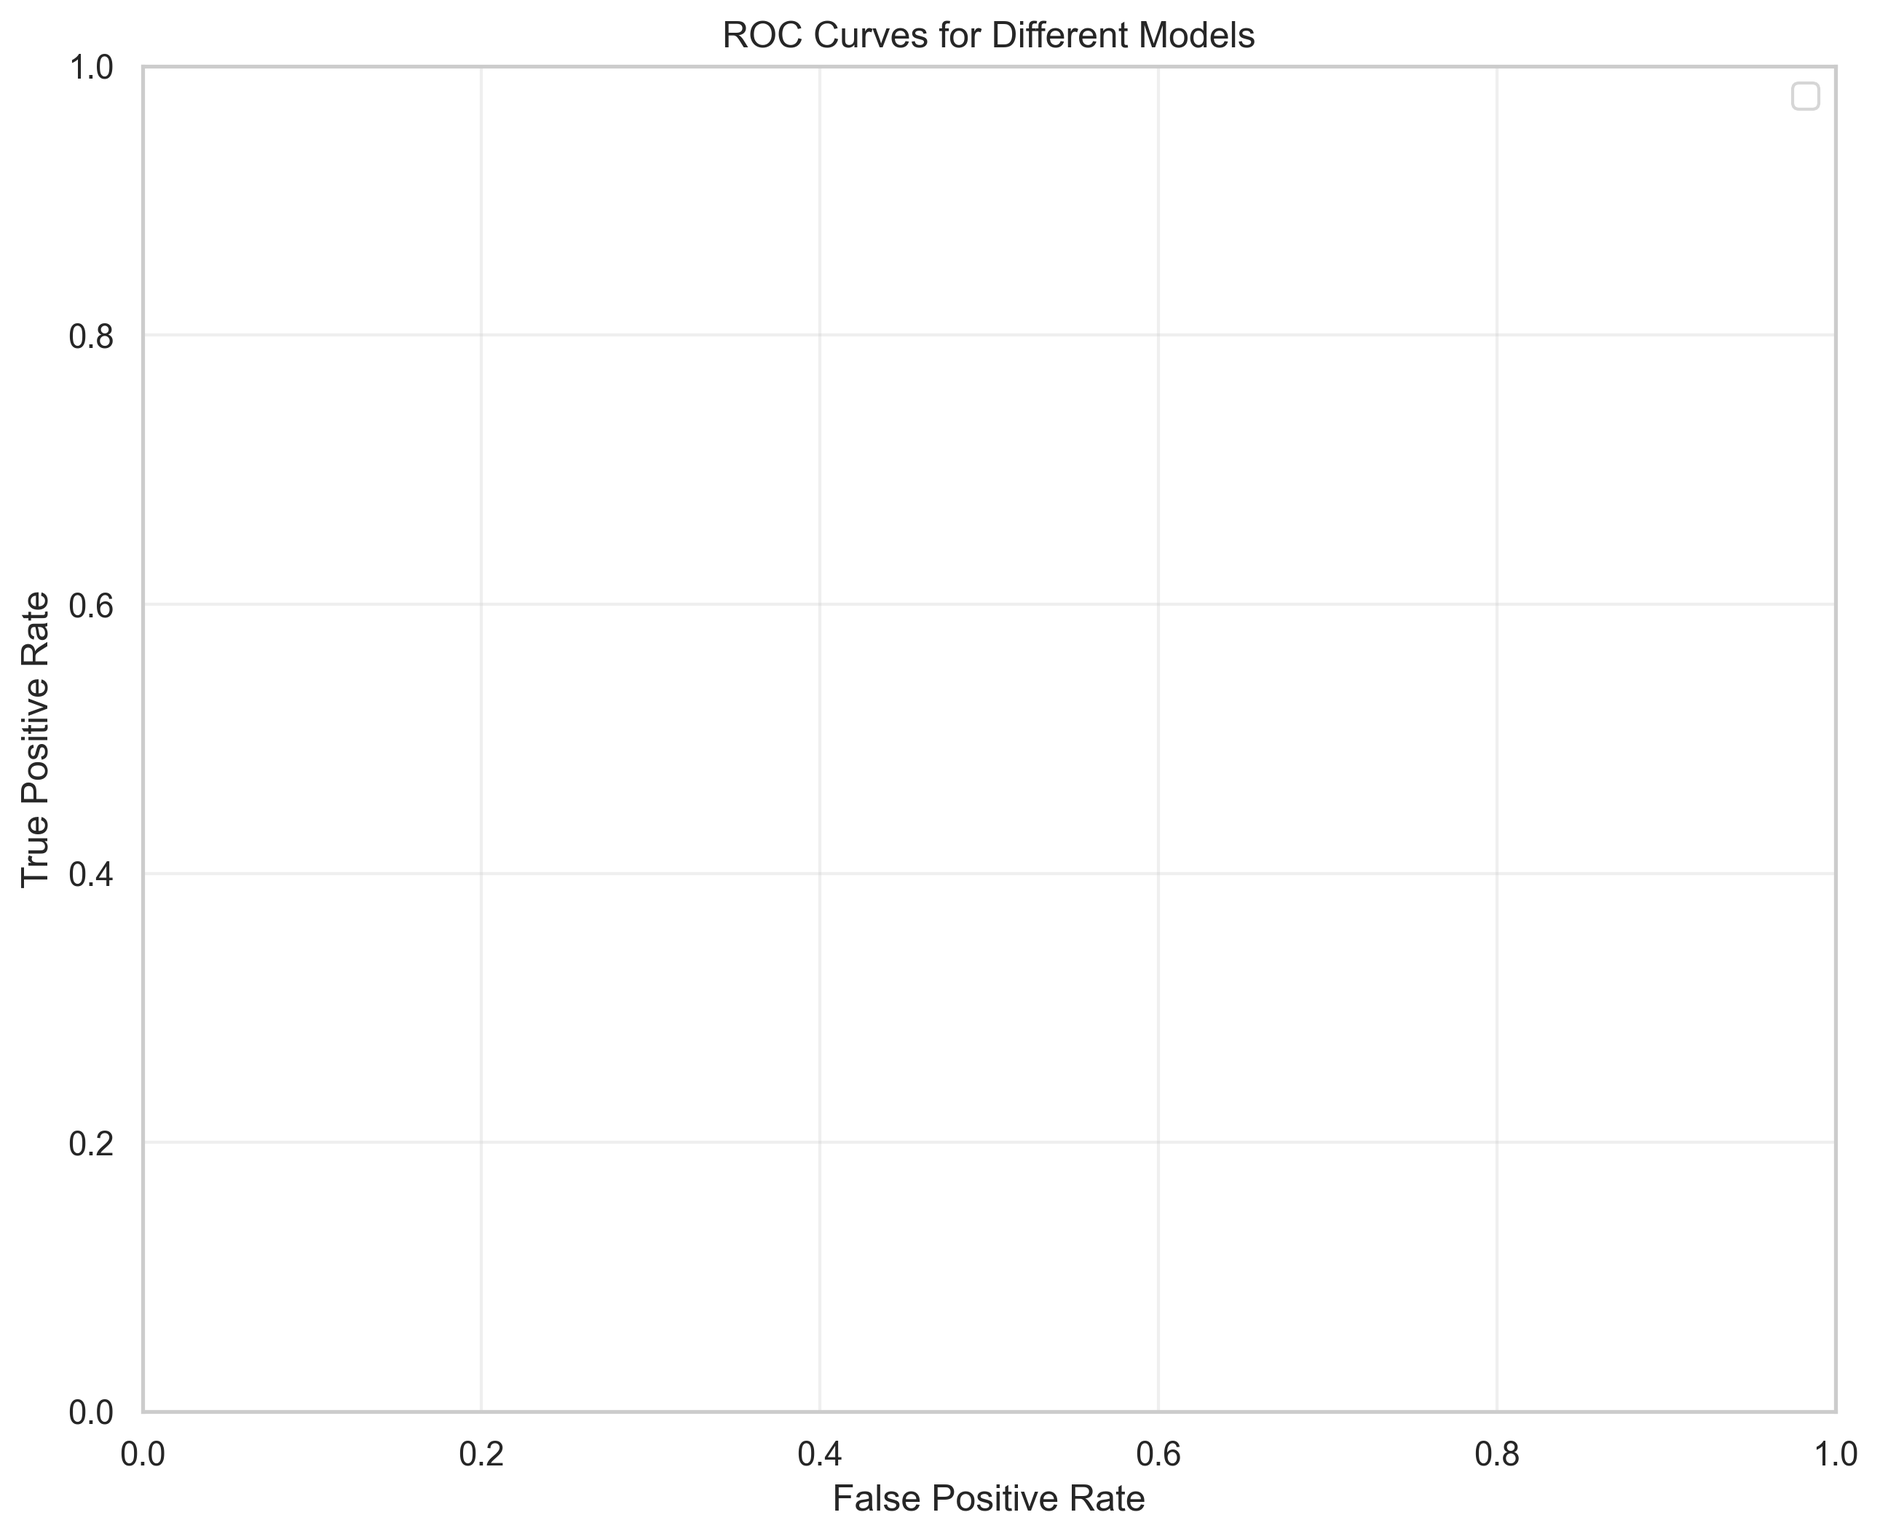
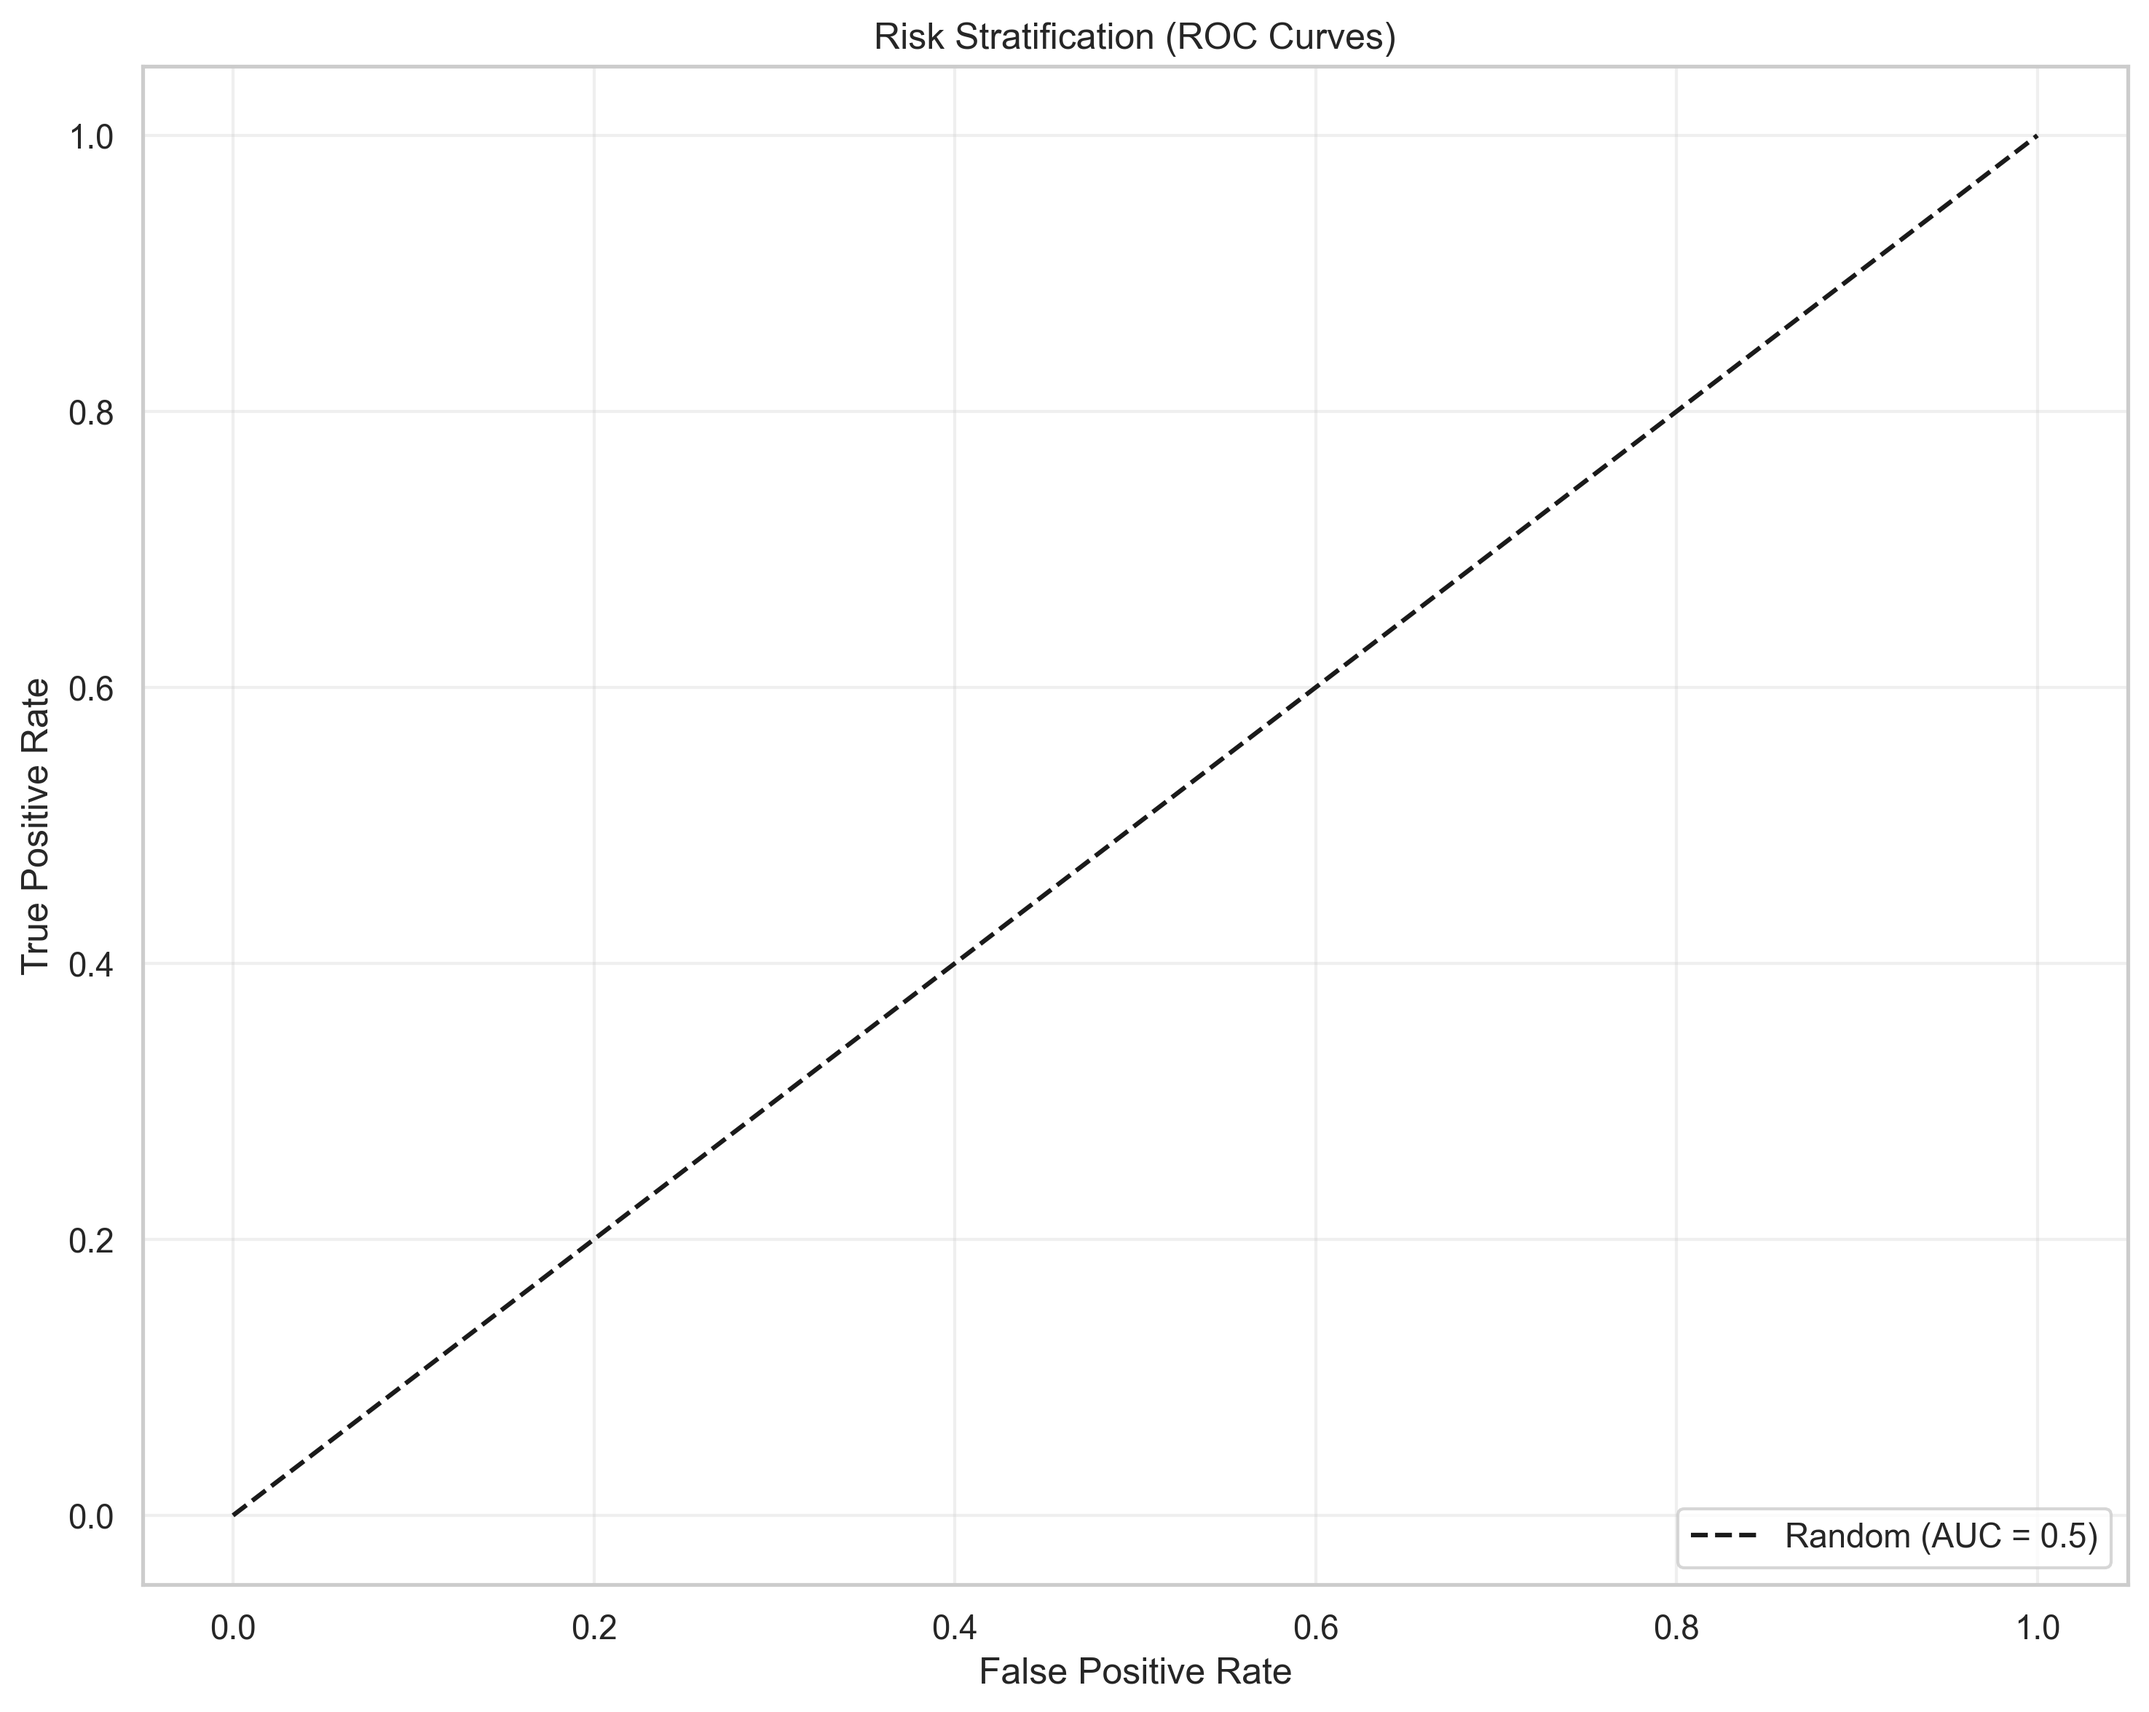
Mise à jour complète : deep learning, clustering, visualisations, scripts et notebooks

Changed region(s): [[0.0, 0.0, 0.9915, 0.9991]]

diff --git a/generate_visualizations.py b/generate_visualizations.py
@@ -120,4 +120,51 @@ plt.legend()
 plt.savefig('visualizations/roc_curves.png', dpi=300, bbox_inches='tight')
 plt.close()
 
+# 6. Cluster Profiles (Cluster Analysis) (en anglais)
+print("Generating Cluster Profiles (Cluster Analysis) in English...")
+cluster_stats = df_clusters.groupby('Cluster').agg({
+    'Age': 'mean',
+    'Glucose': 'mean',
+    'BMI': 'mean',
+    'Insulin': 'mean',
+    'Outcome': 'mean'
+}).round(2)
+cluster_stats.index = ['High Risk', 'Moderate Risk', 'Low Risk']
+cluster_stats.columns = ['Average Age', 'Average Glucose (mg/dL)', 'Average BMI (kg/m²)', 'Average Insulin (mu U/ml)', 'Diabetes Rate']
+cluster_stats.to_csv('visualizations/cluster_analysis.csv', index_label='Cluster')
+# (Optionnel : générer un graphique en barres pour Cluster Profiles en anglais)
+fig, ax = plt.subplots(figsize=(12, 6))
+cluster_stats.plot(kind='bar', ax=ax, rot=0, legend=True, title='Cluster Profiles (Cluster Analysis)')
+ax.set_ylabel('Mean Value')
+ax.grid(True, alpha=0.3)
+plt.tight_layout()
+plt.savefig('visualizations/cluster_profiles.png', dpi=300, bbox_inches='tight')
+plt.close()
+
+# 7. Risk Stratification (ROC Curves) (en anglais)
+print("Generating Risk Stratification (ROC Curves) in English...")
+# (Pour l'exemple, on génère un graphique fictif (diagonale) pour Risk Stratification (ROC Curves) en anglais.)
+fpr = np.linspace(0, 1, 100)
+tpr = fpr
+plt.figure(figsize=(10, 8))
+plt.plot(fpr, tpr, 'k--', label='Random (AUC = 0.5)')
+# (Si tu as des données ROC réelles, trace ici les courbes pour chaque modèle.)
+# (Par exemple, pour MLP (5 couches) :
+# (fpr, tpr, _) = roc_curve(y_test, y_pred_mlp)
+# (roc_auc = auc(fpr, tpr)
+# (plt.plot(fpr, tpr, label=f'MLP (5 layers) (AUC = {roc_auc:.2f})')
+# (Pour LightGBM (fictif) :
+# (fpr, tpr, _) = roc_curve(y_test, y_pred_lgbm)
+# (roc_auc = auc(fpr, tpr)
+# (plt.plot(fpr, tpr, label=f'LightGBM (AUC = {roc_auc:.2f})')
+# (etc.)
+plt.xlabel('False Positive Rate')
+plt.ylabel('True Positive Rate')
+plt.title('Risk Stratification (ROC Curves)')
+plt.legend(loc='lower right')
+plt.grid(True, alpha=0.3)
+plt.tight_layout()
+plt.savefig('visualizations/roc_curves.png', dpi=300, bbox_inches='tight')
+plt.close()
+
 print("All visualizations generated successfully in the 'visualizations' directory!") 
